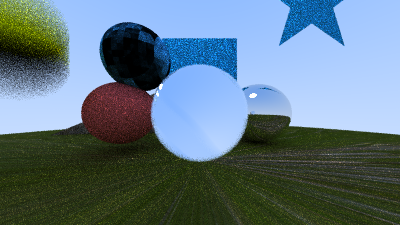
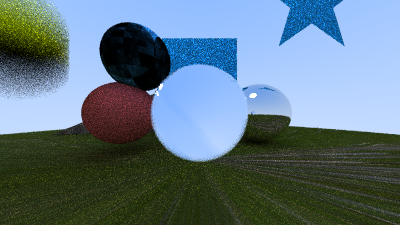
parallelization

diff --git a/raytracer.py b/raytracer.py
@@ -1,6 +1,8 @@
 import math
 import numpy as np
 from PIL import Image
+import concurrent.futures
+import os
 
 from bvh_node import BVHNode
 from camera import Camera
@@ -37,13 +39,34 @@ def ray_color(ray: Ray, world: BVHNode, depth: int) -> np.ndarray:
     blue  = np.array([0.5, 0.7, 1.0], dtype=np.float32)
     return blueness * blue + (1 - blueness) * white
 
+def render_scanline(y: int,
+                    width: int,
+                    height: int,
+                    samples_per_pixel: int,
+                    camera: Camera,
+                    world: BVHNode) -> tuple[int, np.ndarray]:
+    
+    row = np.zeros((width, 3), dtype=np.float32)
+    for col in range(width):
+        pixel_color = np.array([0, 0, 0], dtype=np.float32)
+        for _ in range(samples_per_pixel):
+            horizontal_percentage = (col + np.random.rand()) / (width - 1)
+            vertical_percentage = (y + np.random.rand()) / (height - 1)
+
+            ray = camera.get_ray(horizontal_percentage, vertical_percentage)
+            pixel_color += ray_color(ray, world, 0)
+
+        pixel_color /= samples_per_pixel    
+        row[col, :] = pixel_color
+    
+    return y, row
+
+
 def main():
 
     width = 400
     height = 225
     samples_per_pixel = 20
-
-    image = np.zeros(shape=(height, width, 3), dtype=np.float32)
 
     aspect_ratio = width / height
     camera_position = np.array([0.0, 0.0, 0.0], dtype=np.float32)
@@ -154,18 +177,20 @@ def main():
 
     normal_interpolation_example = BVHNode(smooth_sphere_tris)
 
-    for row in range(height):
-        for col in range(width):
-            pixel_color = np.array([0, 0, 0], dtype=np.float32)
-            for _ in range(samples_per_pixel):
-                horizontal_percentage = (col + np.random.rand()) / (width - 1)
-                vertical_percentage = (height - 1 - row + np.random.rand()) / (height - 1)
+    image = np.zeros(shape=(height, width, 3), dtype=np.float32)
+    max_workers = os.cpu_count() or 4
+    with concurrent.futures.ThreadPoolExecutor(max_workers=max_workers) as executor:
+        futures = [
+            executor.submit(
+                render_scanline, y, width, height, samples_per_pixel, camera, world
+            )
+            for y in range(height)
+        ]
 
-                ray = camera.get_ray(horizontal_percentage, vertical_percentage)
-                pixel_color += ray_color(ray, world, 0)
+        for future in concurrent.futures.as_completed(futures):
+            y, row = future.result()
 
-            pixel_color /= samples_per_pixel    
-            image[row, col, :] = pixel_color
+            image[height - 1 - y, :, :] = row
 
     image_uint8 = (np.clip(image, 0.0, 1.0) * 255).astype(np.uint8)
 
